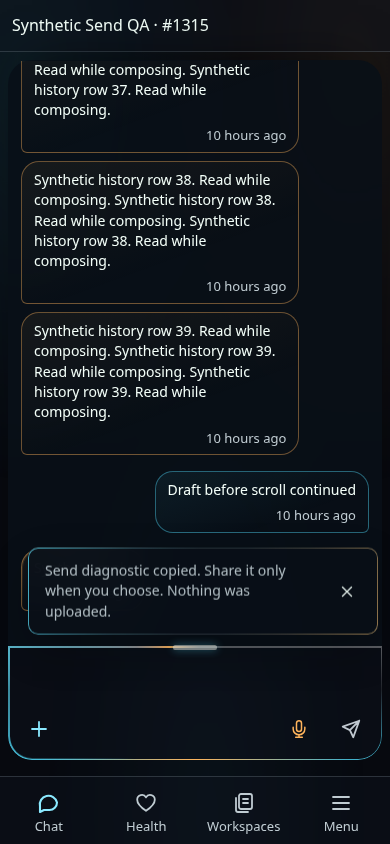
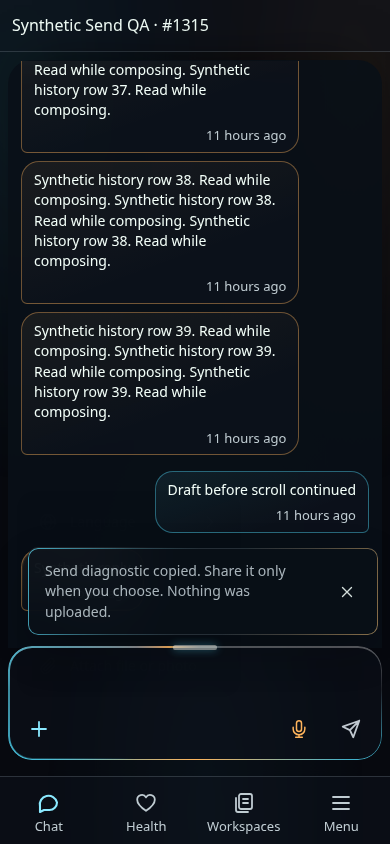
test(web): verify settled diagnostic cancellation with intact native touch

diff --git a/apps/web/src/send-diagnostic.ts b/apps/web/src/send-diagnostic.ts
@@ -38,14 +38,15 @@ export function observeSendDiagnostic(input: HTMLTextAreaElement, send: HTMLButt
     return inComposer(target) ? 'composer-surface' : 'other';
   };
   const finite = (value: number) => Number.isFinite(value) ? Math.round(value) : 0;
-  const record = (event: Event, phase: SendDiagnosticEntry['phase'], pathInComposer = event.composedPath().some(inComposer)) => {
+  const record = (event: Event, phase: SendDiagnosticEntry['phase'], pathInComposer = event.composedPath().some(inComposer),
+    target = classify(event.target), contained = inComposer(event.target)) => {
     if (disposed) return;
     const rect = send.getBoundingClientRect();
     const viewport = window.visualViewport;
     const pointer = 'pointerType' in event ? event.pointerType : '';
     entries.push({
       ms: finite(performance.now() - started), event: event.type, phase,
-      target: classify(event.target), inComposer: inComposer(event.target),
+      target, inComposer: contained,
       pathInComposer, focused: classify(document.activeElement),
       prevented: event.defaultPrevented, disabled: send.disabled,
       pointer: pointer === 'touch' || pointer === 'mouse' || pointer === 'pen' ? pointer : 'none',
@@ -60,13 +61,15 @@ export function observeSendDiagnostic(input: HTMLTextAreaElement, send: HTMLButt
     if (!observing) return;
     // Never observe unrelated interactions before an active composer session.
     const pathInComposer = event.composedPath().some(inComposer);
-    record(event, 'capture', pathInComposer);
+    const target = classify(event.target);
+    const contained = inComposer(event.target);
+    record(event, 'capture', pathInComposer, target, contained);
     if (['pointerdown', 'mousedown', 'touchstart', 'click', 'submit'].includes(event.type)) {
       // Native dispatch can checkpoint microtasks between listeners. A task
       // runs after propagation/default actions, including React's cancellation.
       const timer = window.setTimeout(() => {
         pending.delete(timer);
-        record(event, 'settled', pathInComposer);
+        record(event, 'settled', pathInComposer, target, contained);
       }, 0);
       pending.add(timer);
     }

diff --git a/apps/web/src/send-diagnostic.test.ts b/apps/web/src/send-diagnostic.test.ts
@@ -114,3 +114,16 @@ it('classifies composer controls and containment paths without copying their lab
   expect(JSON.stringify(last)).not.toContain('PRIVATE');
   dispose();
 });
+
+it('retains only captured target categories when native event targets clear after dispatch', async () => {
+  const { input, send, form } = fixture();
+  form.className = 'conversation-input';
+  const dispose = observeSendDiagnostic(input, send);
+  const event = new Event('pointerdown', { bubbles: true, cancelable: true });
+  send.addEventListener('pointerdown', event => event.preventDefault());
+  send.dispatchEvent(event);
+  Object.defineProperty(event, 'target', { value: null });
+  await vi.waitFor(() => expect(readSendDiagnostic().some(row => row.event === 'pointerdown' && row.phase === 'settled' &&
+    row.target === 'send' && row.inComposer && row.pathInComposer && row.prevented)).toBe(true));
+  dispose();
+});

diff --git a/docs/ui/screenshots/send-diagnostic/browser.py b/docs/ui/screenshots/send-diagnostic/browser.py
@@ -89,6 +89,7 @@ with sync_playwright() as p:
         assert all(set(row) == {'ms','event','phase','target','focused','inComposer','pathInComposer','prevented','disabled','pointer','viewport','button'} for row in payload['events'])
         assert any(row['event'] == 'pointerdown' and row['target'] == 'send' and row['phase'] == 'settled' and row['prevented'] for row in payload['events']), payload
         result['native_send_cancellation_recorded'] = True
+        result['native_send_pointerdown'] = [row for row in payload['events'] if row['event'] == 'pointerdown' and row['target'] == 'send']
         result['copied_event_count'] = len(payload['events'])
         result['clipboard_content_free'] = True
 

diff --git a/docs/ui/screenshots/send-diagnostic/README.md b/docs/ui/screenshots/send-diagnostic/README.md
@@ -86,3 +86,25 @@ a microtask; pending tasks are explicitly cancelled on disposal. This is essenti
 to avoid falsely reporting prevented=false before the real Send guard runs. The
 browser assertion requires a settled native Send pointer-down with prevented=true;
 production event guards remain intact. No extra data fields are introduced.
+
+## Intact native event comparison on combined main
+
+Base: combined main `67b581dd` (diagnostic #1329 plus bubble #1326). With all
+production event guards intact, native Chromium touch submits once but the merged
+microtask collector records Send pointer-down capture/settled prevented=false.
+The native cancellation assertion fails; `native-order-baseline.json` retains
+the content-free Send records. This verifies a diagnostic sampling defect, not
+the owner's iOS tap failure.
+
+A deferred task observes prevented=true, but native SVG event target identity can
+clear after dispatch. Capture only the existing target category/containment
+booleans, then use them in the deferred sample. Do not retain DOM identity or add
+data fields. The final native run records capture=false then settled=true for
+Send, while one-tap Send, continued typing/scroll, copy privacy and outside
+controls pass. `browser.json` includes those records and the assertion outcome.
+
+The test leaves React handlers/defaults intact: no stopPropagation or replacement
+handlers. VisualViewport keyboard height/blur expansion remain simulated; backend
+responses and layout are fixtures. Clipboard is read by the test harness only.
+No physical iOS keyboard, Send fix, telemetry, policy/gate change or self-merge is
+claimed. Pending tasks are cancelled on cleanup.

diff --git a/PLAN.md b/PLAN.md
@@ -1,3 +1,12 @@
+## Diagnostic native-event sampling correction (#1315; local follow-up)
+
+Native Chromium confirmed that capture microtasks can label cancellation before
+React handles Send. Defer settled samples to a task and preserve only categorical
+target metadata that native SVG dispatch can clear. No new trace fields or input
+behavior changes. Based on combined main67b581dd; retain both merged features.
+Next: normal follow-up PR qualification, review and owner manual merge, then normal
+exact-tree release. No gate weakening or stale deployment retry.
+
 ## Temporary mobile composer diagnostic (#1315; 26 October 2026)
 
 Implementation and local validation complete: passive, bounded, content-free
